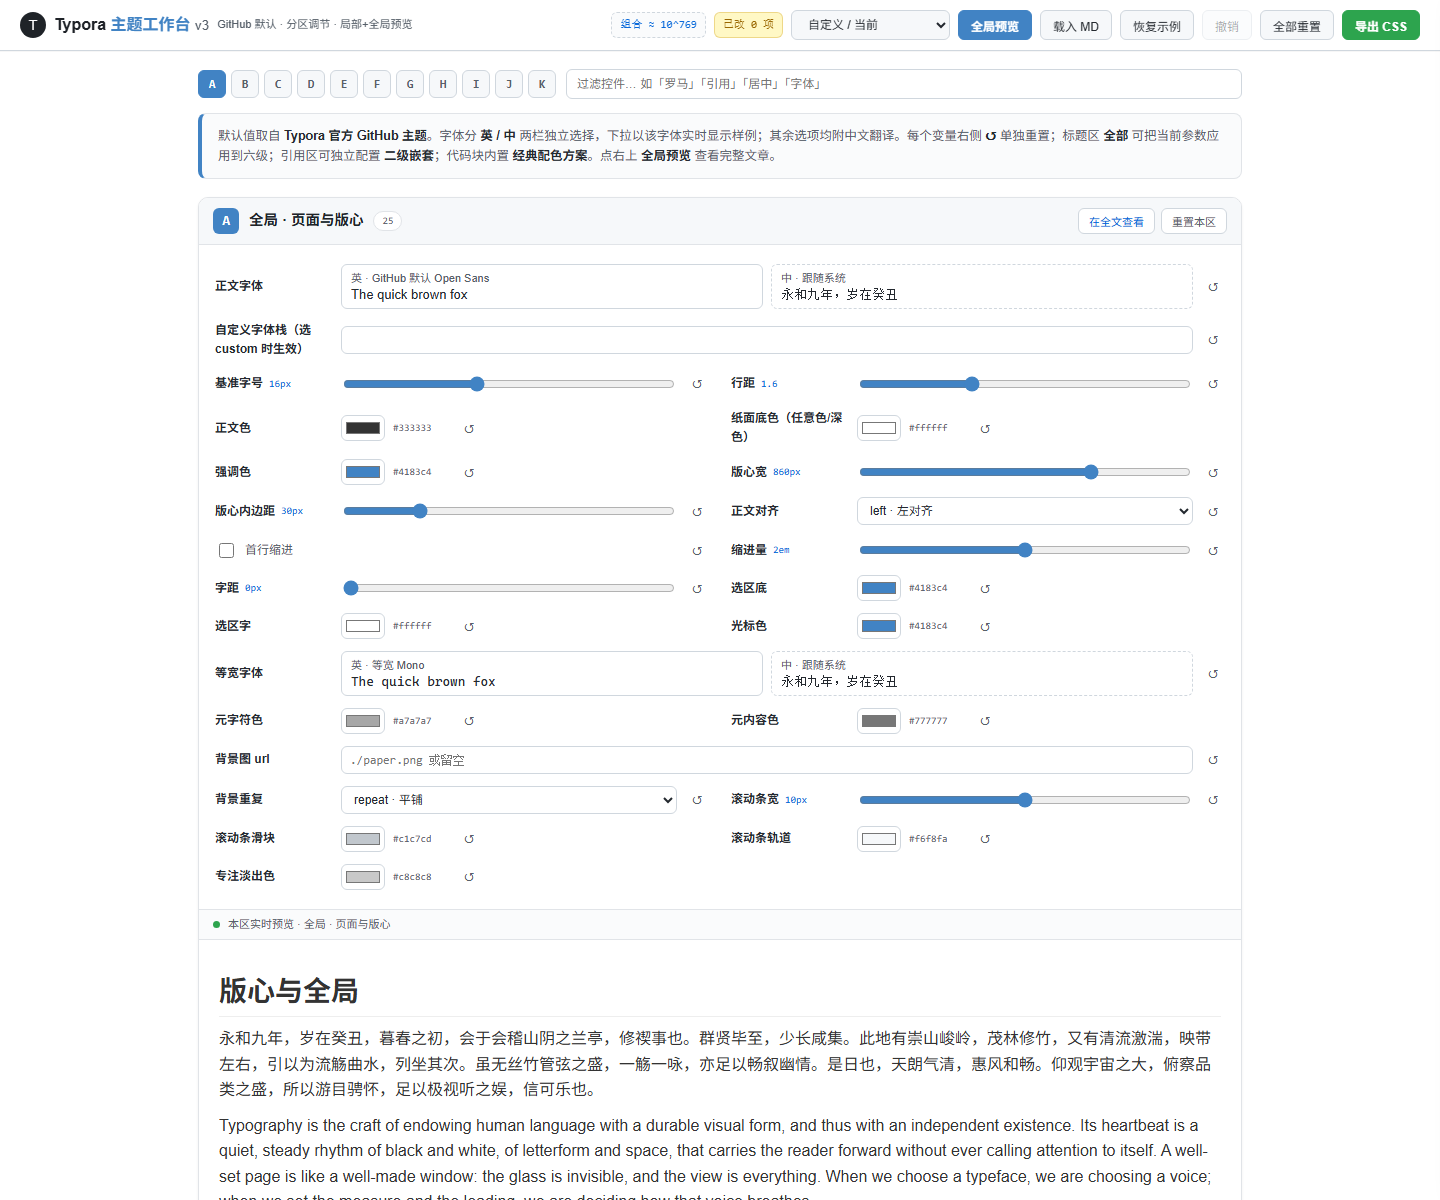
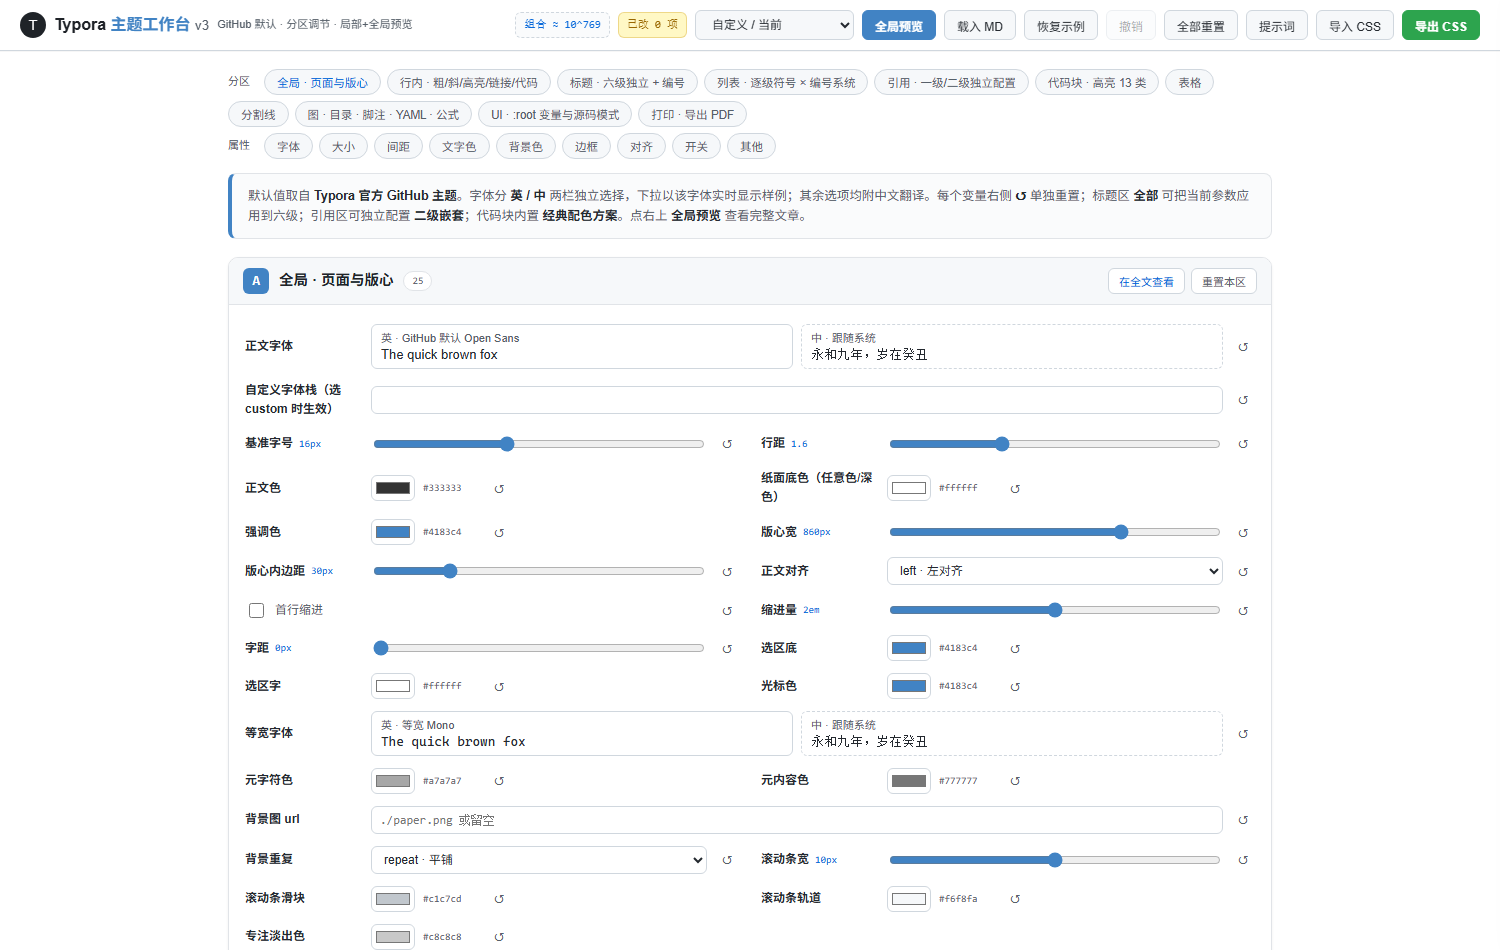
feat: 双行筛选 + AI 提示词/CSS 导入反解 + 列表编号修复
- 修复有序/无序列表跨空行合并导致的预览编号错位
- 筛选改为双行多选：分区名 × 属性类别，仅显示匹配控件并计数
- A 区示例补充加粗/斜体/高亮/强调色等行内预览
- 新增「提示词」一键复制 System Prompt、「导入 CSS」探针差分反解参数
- 预览语言标签改为右上角浮层，对齐 Typora 实际渲染
- 刷新全部截图与 README，补充示例图 figures/fig1.svg

diff --git a/README.md b/README.md
@@ -12,17 +12,25 @@
 
 ## 截图
 
-| 工作台总览 | 字体下拉（中英分离 · 分组折叠） |
+| 工作台总览 | 双行筛选：分区 × 属性多选 |
 | --- | --- |
-| ![总览](screenshots/overview.png) | ![字体](screenshots/fonts.png) |
+| ![总览](screenshots/overview.png) | ![筛选](screenshots/filter.png) |
+
+| 字体下拉（中英分离 · 分组折叠） | 列表：逐级符号 × 编号系统 |
+| --- | --- |
+| ![字体](screenshots/fonts.png) | ![列表](screenshots/list.png) |
 
 | 代码块经典配色（Monokai） | 全局文章预览抽屉 |
 | --- | --- |
 | ![代码配色](screenshots/code.png) | ![全局预览](screenshots/preview.png) |
 
-| 导出 CSS | |
+| AI 设计提示词（一键复制） | 导入 CSS · 自动反解为参数 |
 | --- | --- |
-| ![导出](screenshots/export.png) | |
+| ![提示词](screenshots/prompt.png) | ![导入](screenshots/import.png) |
+
+| 导入后参数自动生成，可继续微调 | 导出 CSS |
+| --- | --- |
+| ![导入结果](screenshots/imported.png) | ![导出](screenshots/export.png) |
 
 ---
 
@@ -31,6 +39,8 @@
 - **254 个可调参数**，覆盖 Typora 主题几乎全部可定制面：版心 / 行内 / 六级标题 / 列表 / 引用 / 代码块 / 表格 / 分割线 / 图·目录·脚注·YAML·公式 / UI 变量 / 打印导出。
   仅离散选项的理论组合就超过 **10¹²⁵** 种；算上连续颜色更达 **10⁷⁶⁸** 种——理论上可以排列出近乎无限的主题。
 - **分区实时预览 + 全局文章抽屉**：每个分区下方有该环节的局部预览；点「全局预览」在右侧抽屉查看整篇中 / 英 / 日长文示例，也可载入自己的 `.md`。
+- **双行筛选**：第一行按分区名（如「引用 · 一级/二级独立配置」）、第二行按属性类别（字体 / 大小 / 间距 / 文字色 / 背景色 / 边框 / 对齐 / 开关 / 其他）过滤控件，两行均可多选，下方仅显示匹配项并实时计数，一键清除。
+- **AI 设计工作流**：「提示词」一键复制 System Prompt（内含完整默认 CSS 与选择器约定），粘贴到任意 AI 对话、补一句你的喜好，即可让 AI 直接产出主题 CSS；「导入 CSS」把 CSS 自动反解为工作台参数（探针差分反解，识别两百余项），随后手动微调；其它来源的 Typora 主题 CSS 也能识别其中兼容的部分。
 - **字体中英分离**：每个字体槽位拆成「英 / 中」两个独立选择器，组合成 CSS font-stack；下拉选项用该字体实时渲染样例（英文用实词 pangram、中文用古典短句），差异明显的字体置顶、相似字体收进「展开更多」。内置 Century Gothic 等英文字体与宋 / 楷 / 仿宋 / 黑等中文字体。
 - **六级标题独立配置**：h1–h6 各自字体 / 字号 / 字重 / 颜色 / 边框 / 前缀 / 编号，支持「应用到全部六级」与自动编号（多种编号风格）。
 - **引用一级 / 二级独立**：嵌套引用可单独设置形态（左竖线 / 方框 / 定理框 / 花符 / 底纹 / 无）、颜色、底色、边框、字号、字体。
@@ -41,9 +51,10 @@
 ## 使用方法
 
 1. 打开在线地址或本地 `index.html`。
-2. 用顶部 A–K 标签或过滤框定位分区，拖动 / 点选调整参数，下方局部预览与右侧全局预览实时更新。
-3. 满意后点右上「导出 CSS」，复制内容或下载 `.css` 文件。
-4. 把文件放入 Typora 主题目录（`文件 → 偏好设置 → 外观 → 打开主题文件夹`），重启 Typora 并在主题列表中选择即可。
+2. 用顶部双行筛选定位控件：第一行选分区、第二行选属性类别（字体、背景色、文字色、大小等），均可多选，下方仅显示符合的选项；拖动 / 点选调整参数，下方局部预览与右侧全局预览实时更新。
+3. 也可以让 AI 替你设计：点「提示词」复制 System Prompt，粘贴到任意 AI 对话并描述喜好（如「深色护眼、衬线学术风、琥珀强调色」）；把 AI 输出的 CSS 通过「导入 CSS」粘贴进来，点「解析并应用」，参数自动反解生成，再手动微调。
+4. 满意后点右上「导出 CSS」，复制内容或下载 `.css` 文件。
+5. 把文件放入 Typora 主题目录（`文件 → 偏好设置 → 外观 → 打开主题文件夹`），重启 Typora 并在主题列表中选择即可。
 
 ## 参数分区
 
@@ -79,6 +90,7 @@
 
 - 纯 HTML + CSS + 原生 JS，单文件 `index.html`，无构建、无外部依赖、无网络请求。
 - 预览与导出共用同一套 `buildCSS()`，保证「所见即所得」；导出作用域为 `#write` / `:root`，与 Typora 选择器一致。
+- 导入反解采用「探针差分」：逐个扰动参数生成 CSS，记录其落点的选择器与属性；导入时按这些载体反查并仅写回可识别的参数，非工作台生成的 CSS 只改动兼容部分，不会误触开关。
 - 草稿存于 localStorage（键 `txr-studio-v2-draft`），撤销历史为内存快照。
 
 ## License
